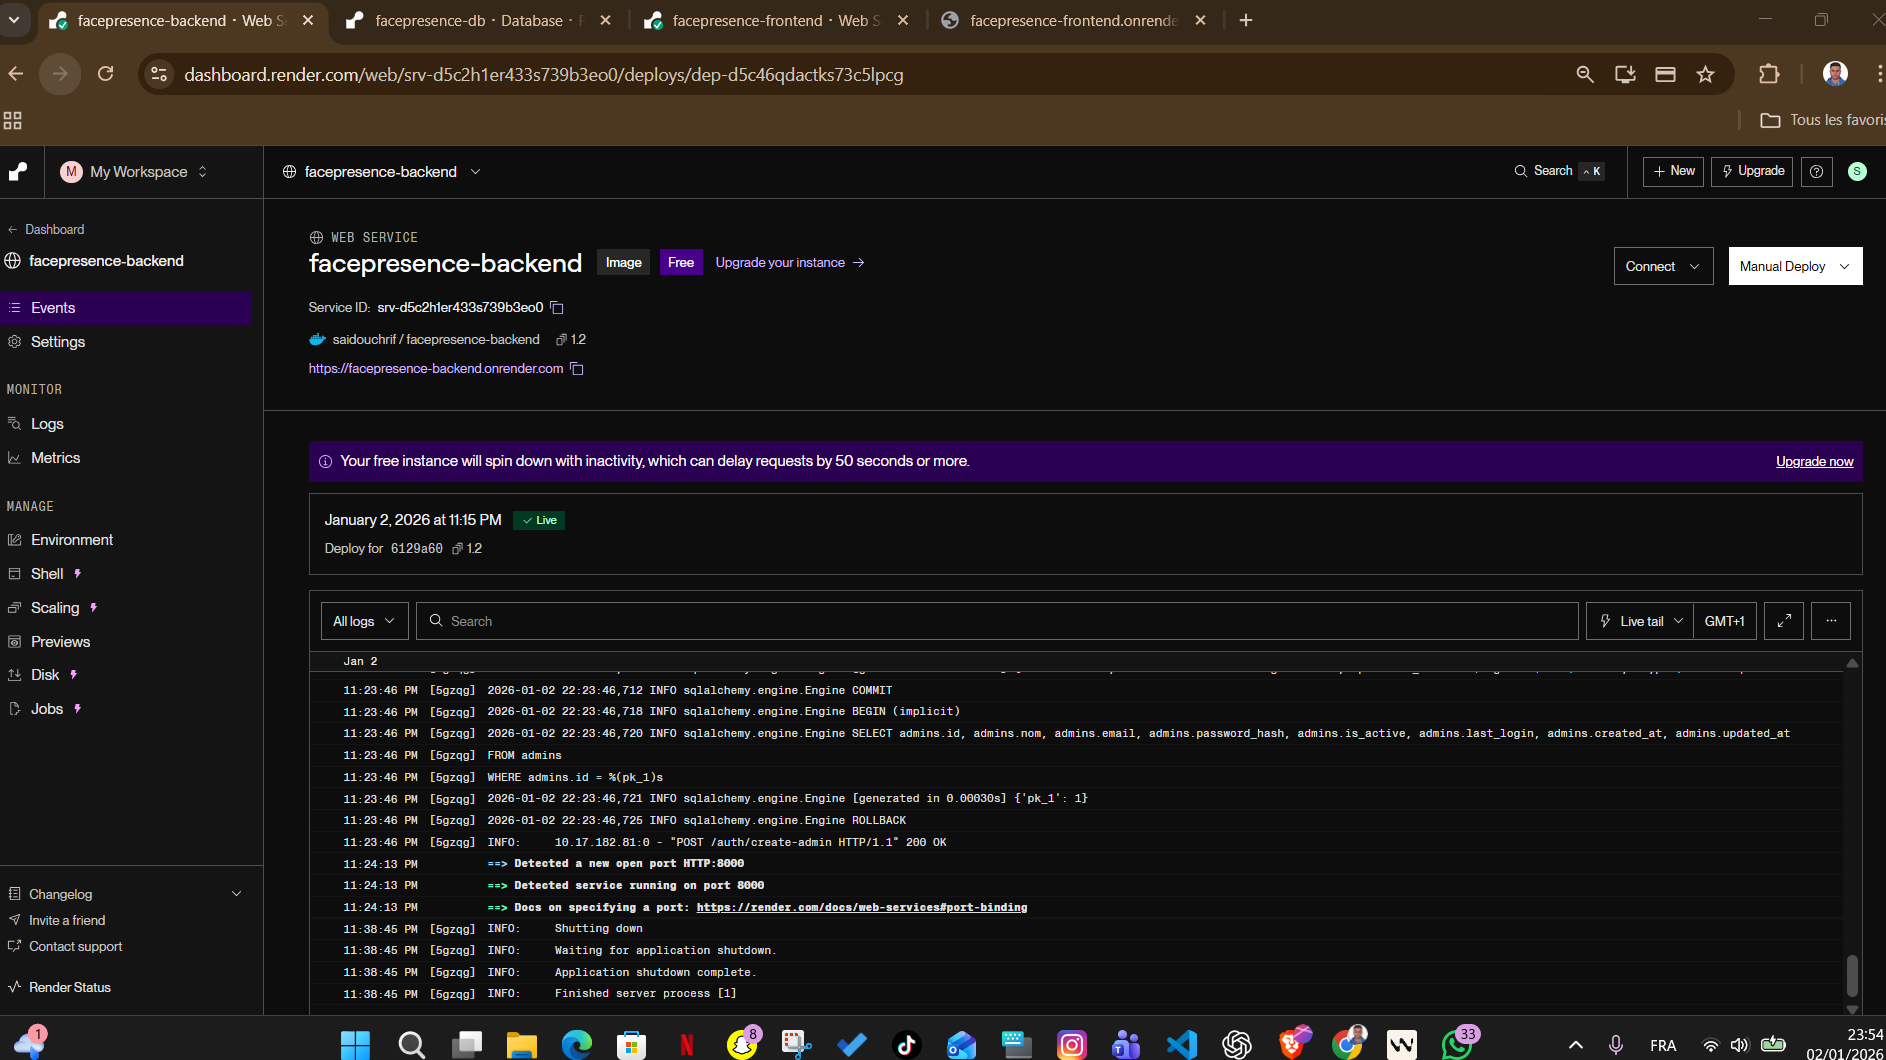
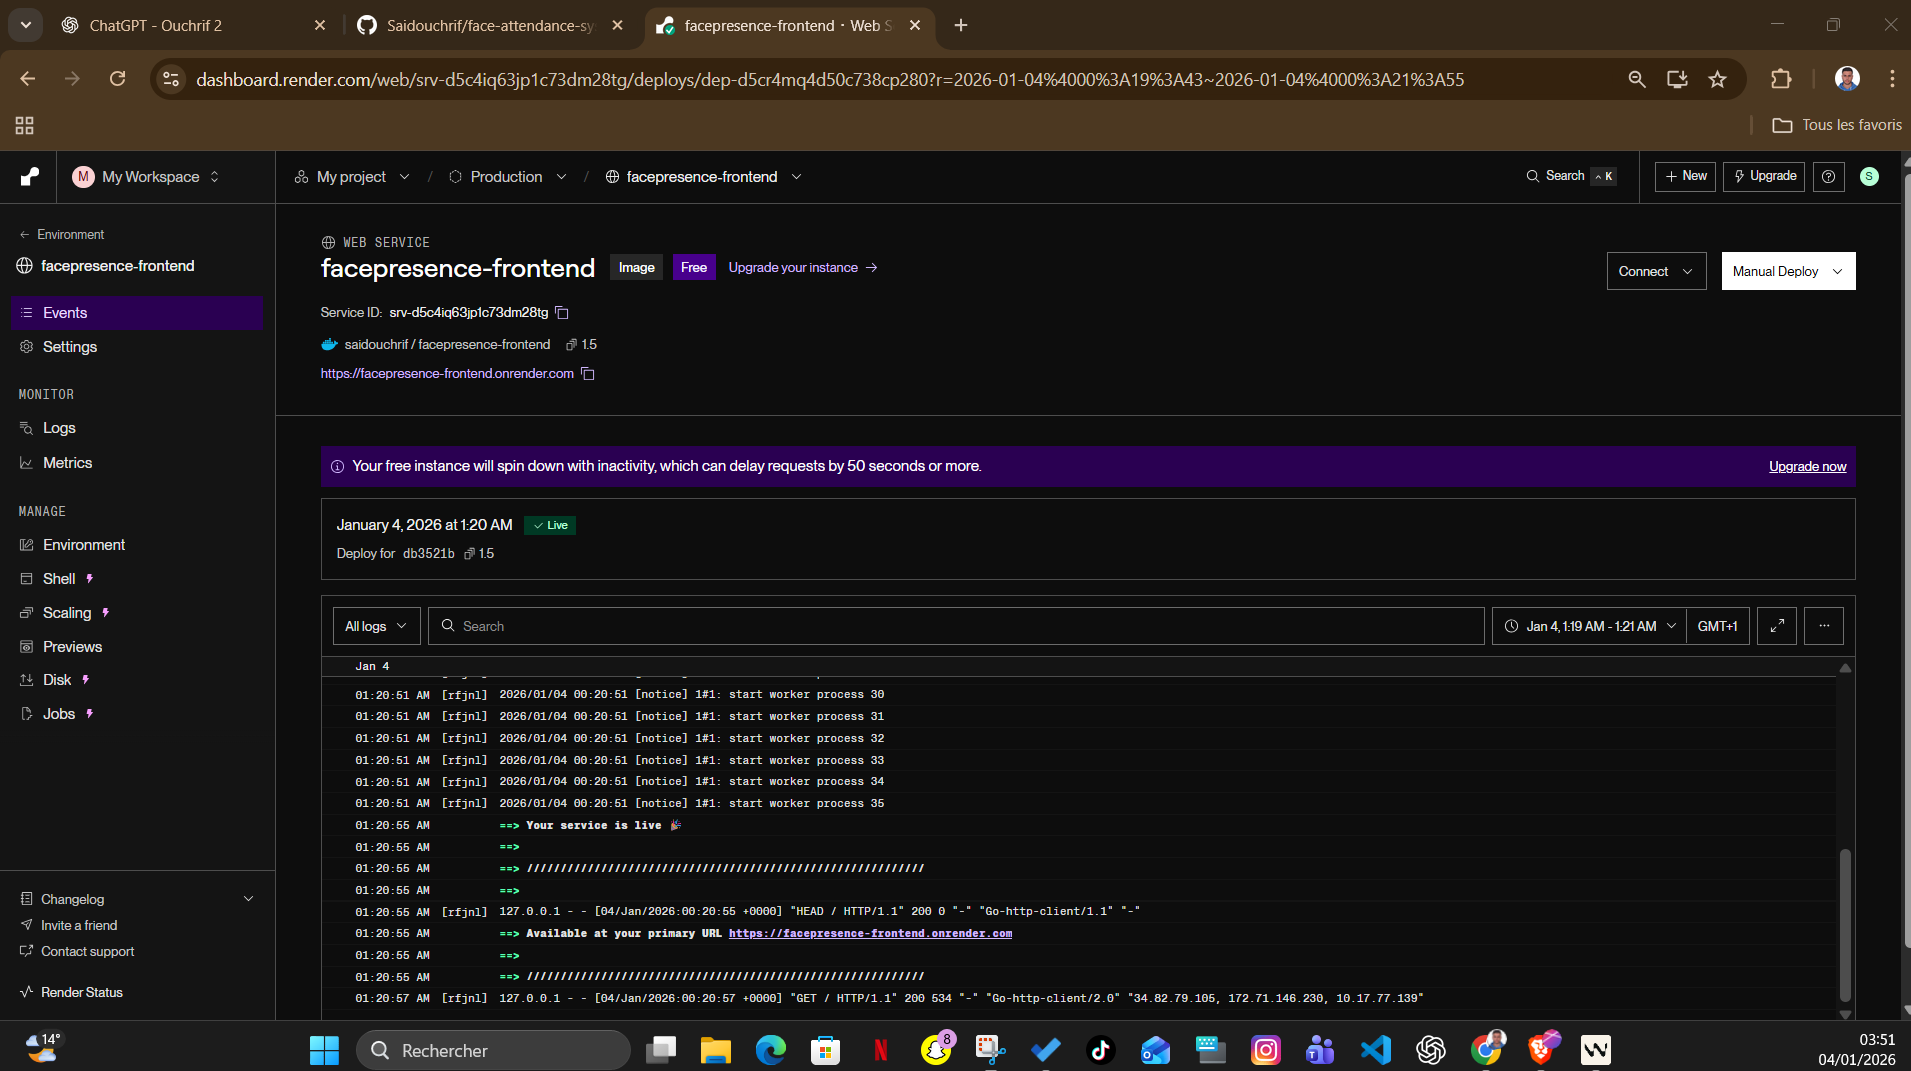
version de code stable au niveau de production

diff --git a/README.md b/README.md
@@ -99,6 +99,9 @@ Captures des services :
 - **Service Base de données**  
   ![Service Database](Deployement/images/base/service_database.png)
 
+- **Interface web (Frontend)**  
+  ![Interface Web](Deployement/images/front-end/interface.png)
+
 ---
 
 ## Technologies utilisées
